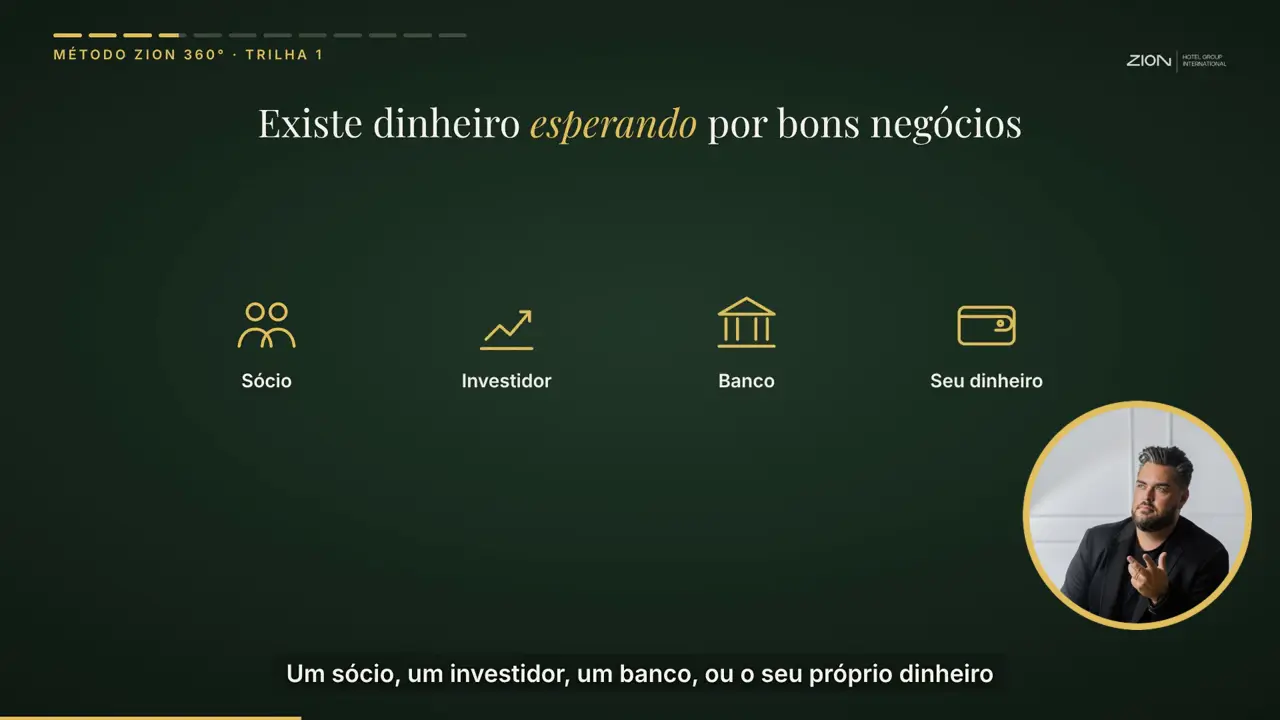
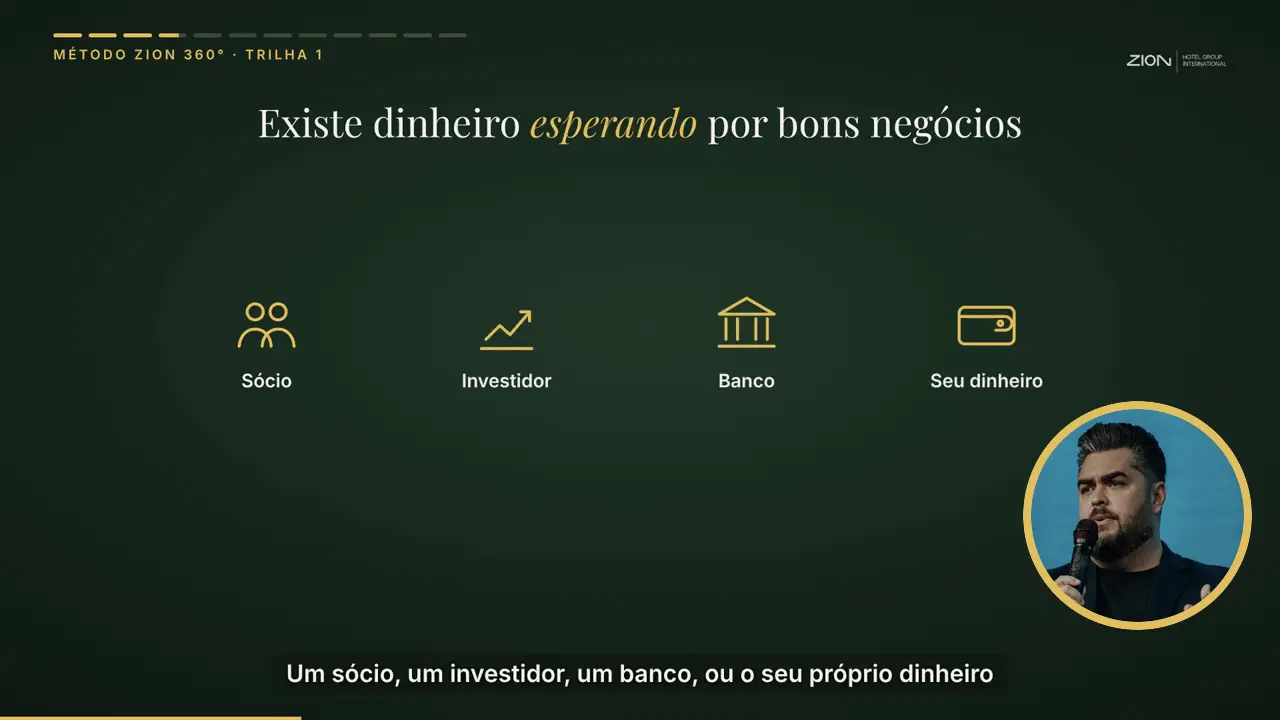
Webinário: foto do Bruno no palco como capa, na prévia ao vivo e na seção do fundador
Claude-Session: https://claude.ai/code/session_01BzUk5bYdjCT6eSVqUG9zKZ

Changed region(s): [[0.7812, 0.55, 1.0, 0.8861]]

diff --git a/docs/webinario/index.html b/docs/webinario/index.html
@@ -7,7 +7,7 @@
 <meta name="description" content="Webinário ao vivo com Bruno Chaerk, fundador da Zion: transforme seu terreno em um destino turístico e aprenda a construir um Airbnb de sucesso. Quinta, 12/11, às 20h.">
 <meta property="og:title" content="Transforme seu terreno em um destino turístico">
 <meta property="og:description" content="Webinário ao vivo com a Zion · quinta 12/11 · 20h · R$ 47">
-<meta property="og:image" content="https://bchaerk-creator.github.io/zion-hotel-ai-developer/assets/operacoes/op08.webp">
+<meta property="og:image" content="https://bchaerk-creator.github.io/zion-hotel-ai-developer/assets/webinario/bruno-palco-og.jpg">
 <link rel="preconnect" href="https://fonts.googleapis.com">
 <link rel="preconnect" href="https://fonts.gstatic.com" crossorigin>
 <link href="https://fonts.googleapis.com/css2?family=Playfair+Display:ital,wght@0,500;0,600;1,500&family=Inter:wght@400;500;600;700;800&family=JetBrains+Mono:wght@500&display=swap" rel="stylesheet">
@@ -164,7 +164,7 @@ var IM='https://bchaerk-creator.github.io/zion-hotel-ai-developer/';
 </script>
 
 <header class="hero">
-  <img src="https://bchaerk-creator.github.io/zion-hotel-ai-developer/assets/operacoes/op08.webp" alt="Bubble Zion no meio da mata de araucárias, vista de cima" fetchpriority="high">
+  <img src="https://bchaerk-creator.github.io/zion-hotel-ai-developer/assets/webinario/bruno-palco.webp" alt="Bruno Chaerk, fundador da Zion, falando ao microfone" fetchpriority="high" style="object-position:50% 10%;height:74%;bottom:auto">
   <div class="w">
     <span class="badge"><i></i>Webinário ao vivo · Zion</span>
     <h1>Transforme seu terreno em um <em>destino turístico</em></h1>
@@ -229,7 +229,7 @@ var IM='https://bchaerk-creator.github.io/zion-hotel-ai-developer/';
   <div class="car" id="car" aria-label="Fotos da operação Zion"></div>
   <p class="small" style="margin:8px 0 0">Hóspedes e unidades da Zion, em operação própria. Arraste para o lado →</p>
   <div class="bruno">
-    <img src="https://bchaerk-creator.github.io/zion-hotel-ai-developer/assets/hub/bruno.webp" alt="Bruno Chaerk, fundador da Zion" loading="lazy">
+    <img src="https://bchaerk-creator.github.io/zion-hotel-ai-developer/assets/webinario/bruno-palco.webp" alt="Bruno Chaerk, fundador da Zion" loading="lazy" style="object-position:50% 15%">
     <div><b style="display:block;font-size:18px">Bruno Chaerk</b><p class="small" style="margin:4px 0 0">Fundador da Zion Hotel Group International, em Florianópolis. Começou com uma bolha no meio da mata, num terreno vazio, e transformou o caminho em método.</p></div>
   </div>
   <div class="ig">
